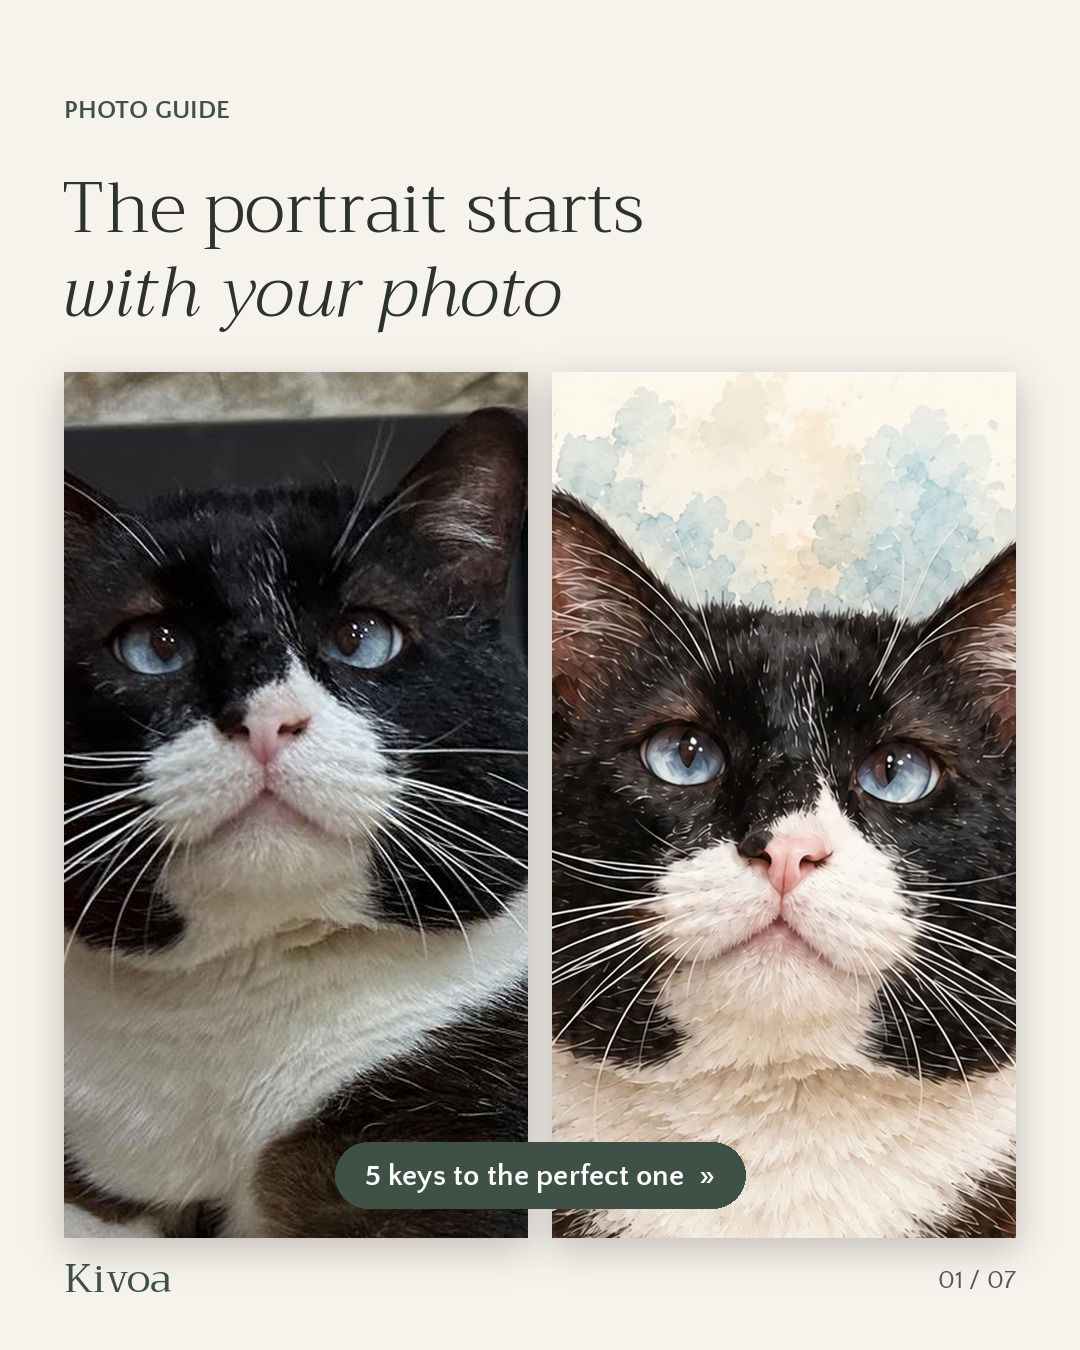
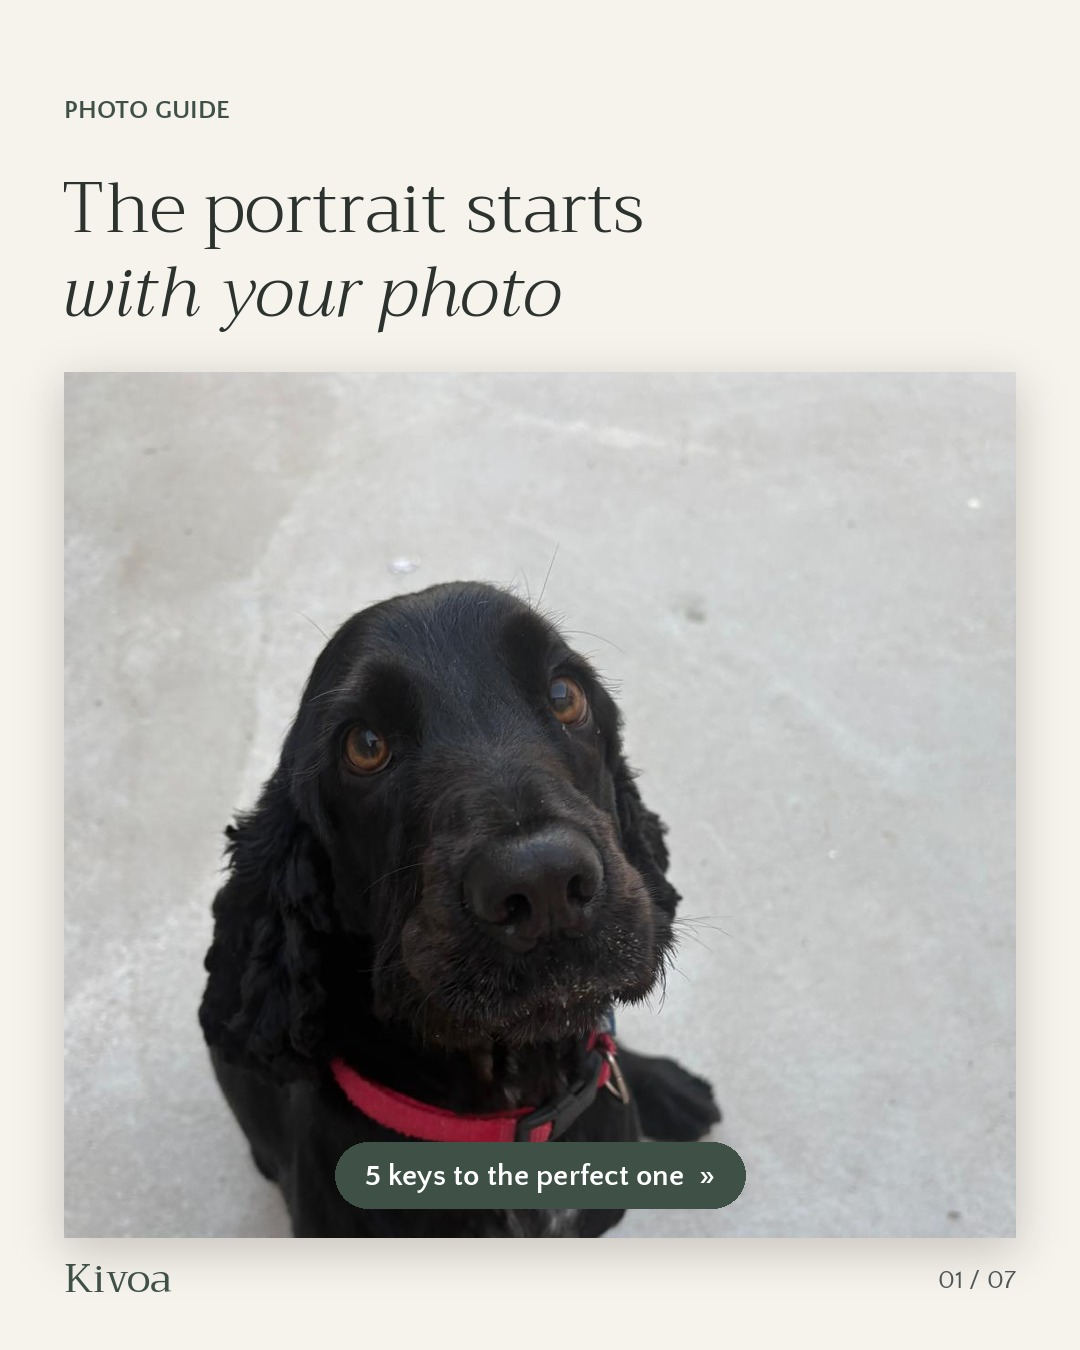
Guía de fotos: un solo perro (Sonic) en todo el carrusel
Claude-Session: https://claude.ai/code/session_01EXxT3oYALMgVYQXs29BEaV

diff --git a/generador/redes/publicaciones.py b/generador/redes/publicaciones.py
@@ -348,7 +348,7 @@ T3 = {
               ('03 · Sharpness', 'The original,\nnot a screenshot', 1, 'Original photo', 'Screenshot / zoom'),
               ('04 · Distance', 'Fill the frame\nwith their face', 1, 'Close up', 'Too far')],
         'k5': ('05 · Personality', 'Up to 3 extra photos\nwith their story', 1),
-        'k5_txt': 'Favourite pose, their look, that outfit… they go in the polaroids.',
+        'k5_txt': 'The beach, their favourite spot, that look… they go in the polaroids.',
         'cta_t': 'Not sure\nabout yours?',
         'cta': ['Send it: we check it for free', 'Digital proof in 48 hours', 'Nothing prints without your OK'],
         'boton': 'Save this guide · link in bio',
@@ -361,7 +361,7 @@ T3 = {
               ('03 · Nitidez', 'La original,\nno una captura', 1, 'Foto original', 'Captura o zoom'),
               ('04 · Distancia', 'Que su cara\nllene la foto', 1, 'De cerca', 'Demasiado lejos')],
         'k5': ('05 · Personalidad', 'Hasta 3 fotos más\ncon su historia', 1),
-        'k5_txt': 'Su postura favorita, su mirada, ese disfraz… van en las polaroids.',
+        'k5_txt': 'La playa, su rincón favorito, esa mirada… van en las polaroids.',
         'cta_t': '¿Dudas con\nla tuya?',
         'cta': ['Mándala: la revisamos gratis', 'Vista previa en 48 horas', 'Nada se imprime sin tu OK'],
         'boton': 'Guarda esta guía · enlace en la bio',
@@ -397,27 +397,23 @@ def publicacion_3():
     x0, y0, x1, y1 = FOTO
     w, h = (x1 - x0 - 24) // 2, y1 - y0 - 96
     R = lambda img, cx, cy, z=1.0: recorte(img, w, h, cx, cy, z)
-    lula, lula_lejos, lula_cerca = C('lula', 'foto-principal.jpg'), C('lula', 'extra-2.jpg'), C('lula', 'extra-4.jpg')
-    biz, biz_arriba = C('bizcocho', 'foto-principal.jpg'), C('bizcocho', 'extra-2.jpg')
-    miau = C('miau', 'foto-principal.jpg')
-    oscura = ImageEnhance.Contrast(ImageEnhance.Brightness(R(lula, .5, .35)).enhance(.3)).enhance(.8)
-    pix = R(miau, .5, .42, 1.1)
+    # un solo perro en toda la guía (Sonic)
+    son = lambda f: C('sonic', f)
+    ppal, playa, cascada, bano, captura = son('foto-principal.jpg'), son('extra-1.jpg'), son('extra-2.jpg'), son('extra-3.jpg'), son('captura.jpg')
+    oscura = ImageEnhance.Contrast(ImageEnhance.Brightness(R(ppal, .5, .4, 1.1)).enhance(.3)).enhance(.8)
+    pix = R(bano, .62, .45, 1.3)
     pix = pix.resize((w // 12, h // 12), Image.BILINEAR).resize((w, h), Image.NEAREST).filter(ImageFilter.GaussianBlur(1.5))
-    pares = [(R(lula, .5, .35), oscura), (R(biz, .36, .4, 1.2), R(biz_arriba, .45, .35, 1.0)),
-             (R(miau, .5, .42, 1.1), pix), (R(lula_cerca, .6, .3, 1.15), R(lula_lejos, .5, .45, 1.0))]
+    pares = [(R(ppal, .5, .4, 1.1), oscura), (R(playa, .55, .62, 1.7), R(captura, .5, .55, 1.0)),
+             (R(bano, .62, .45, 1.3), pix), (R(ppal, .5, .33, 1.45), R(cascada, .5, .5, 1.0))]
     total = 7
     for lang, T in T3.items():
         out = A('redes', 'publicaciones', '03-guia-fotos', lang)
         os.makedirs(out, exist_ok=True)
         diapos = []
-        # 1 · Portada: su foto → su retrato
+        # 1 · Portada: su foto, grande
         im = lienzo()
         cabecera(im, T['serie'], *T['p'])
-        ret = C('bizcocho', f'retrato-clasico-{lang}.jpg')
-        for i, (img, (cx, cy, z)) in enumerate([(biz, (.355, .38, 1.9)), (ret, (.575, .29, 2.1))]):
-            xx = x0 + i * (w + 24)
-            sombra(im, (xx, y0, xx + w, y0 + h + 96), radio=18, off=(0, 10), alfa=60)
-            im.paste(recorte(img, w, h + 96, cx, cy, z), (xx, y0))
+        foto_en_zona(im, ppal, cx=.5, cy=.4, zoom=1.15)
         d = ImageDraw.Draw(im)
         f = TXT_B(30)
         tw = d.textlength(T['p_sub'], font=f)
@@ -433,9 +429,9 @@ def publicacion_3():
         # 6 · Personalidad: 3 polaroids
         im = lienzo()
         cabecera(im, *T['k5'])
-        extras = [C('lula', 'extra-1.jpg'), C('lula', 'extra-3.jpg'), C('lula', 'extra-2.jpg')]
+        extras = [playa, cascada, bano]
         for foto, c, a, foco in zip(extras, [(300, 650), (770, 610), (540, 930)], [-6, 5, -3],
-                                    [(.5, .35), (.63, .45), (.34, .27)]):
+                                    [(.52, .6), (.78, .72), (.62, .45)]):
             polaroid(im, foto, c, 350, a, foco=foco)
         d = ImageDraw.Draw(im)
         d.text((W / 2, 1232), T['k5_txt'], font=TIT_I(32), fill=GRIS, anchor='ms')
@@ -454,7 +450,7 @@ def publicacion_3():
             check(d, 230, y - 12)
             d.text((276, y), b, font=TXT(42), fill=TINTA, anchor='ls')
             y += 88
-        polaroid(im, C('lula', f'retrato-rosa-{lang}.jpg'), (W / 2, 950), 230, -4, foco=(.5, .45))
+        polaroid(im, ppal, (W / 2, 950), 230, -4, foco=(.5, .35))
         d = ImageDraw.Draw(im)
         boton(d, W / 2, 1180, T['boton'])
         diapos.append(im)
